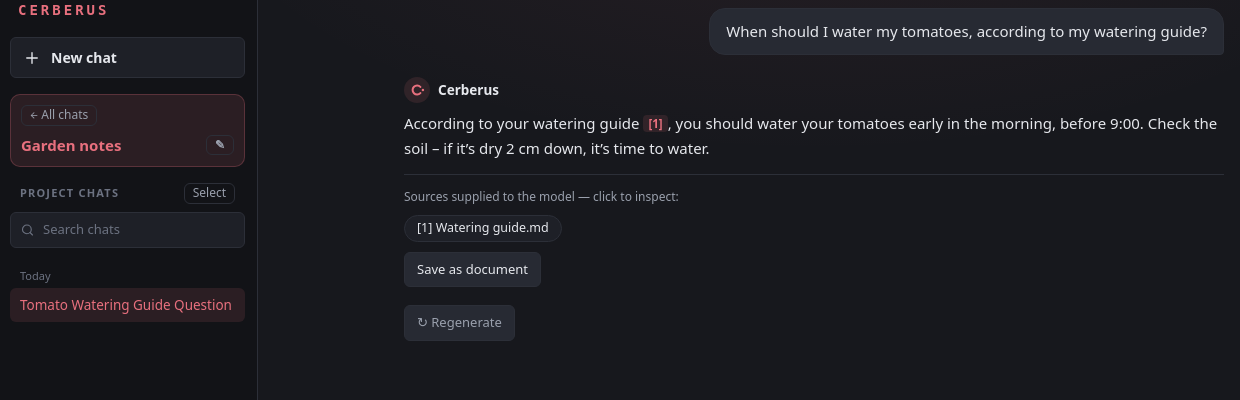
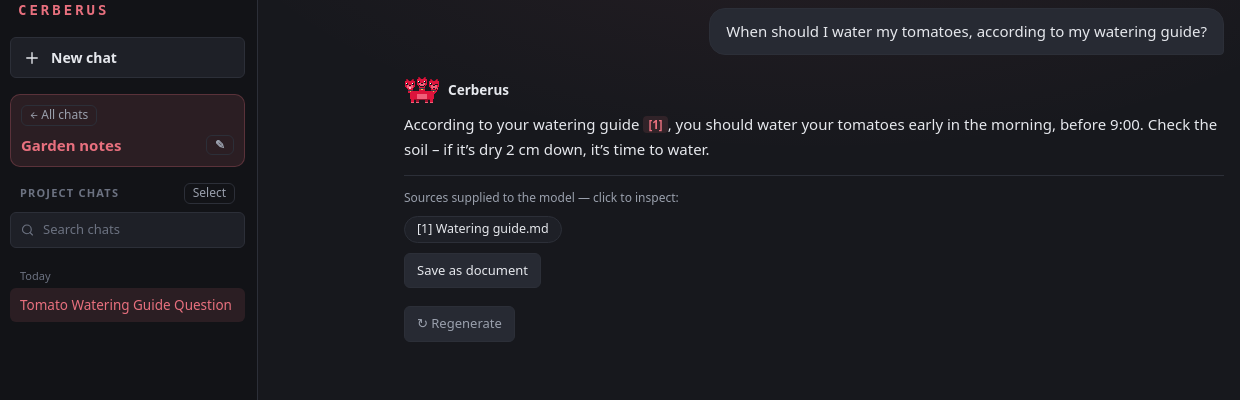
Settings with a page menu; the mascot stays on finished replies
Settings shows one page at a time with compact cards and a fixed size. Replies keep the mascot: talking while writing, resting on the newest, still on older ones.

diff --git a/static/style.css b/static/style.css
@@ -144,8 +144,7 @@ code, pre, kbd {
 }
 
 /* The logo: a thick round line, also in the text's color. */
-.logo,
-.avatar {
+.logo {
   fill: none;
   stroke: currentColor;
   stroke-linecap: round;
@@ -823,14 +822,23 @@ main {
   font-size: 13.5px;
 }
 
-.reply-head .avatar {
-  width: 26px;
-  height: 26px;
-  padding: 6px 4px;
-  border-radius: 50%;
-  background: var(--accent-bg);
-  color: var(--accent);
-  stroke-width: 3.6;
+/* The mascot in place of a profile picture, at one screen pixel per mascot
+   pixel so its edges stay sharp. */
+.reply-mascot {
+  flex-shrink: 0;
+  width: 36px;
+  height: 27px;
+  background: url("/static/mascot.svg") no-repeat center / contain;
+}
+
+/* The newest answer rests: a tail wag now and then. Older ones stay still,
+   so a long chat isn't full of movement. */
+.reply:not(:has(~ .reply)) .reply-mascot {
+  background-image: url("/static/mascot-idle.svg");
+}
+
+.reply.streaming .reply-mascot {
+  background-image: url("/static/mascot-talking.svg");
 }
 
 .reply-meta {
@@ -1742,7 +1750,107 @@ dialog .dialog-close:hover {
 #settings-form {
   display: flex;
   flex-direction: column;
-  max-height: 88vh;
+  height: 100%;
+}
+
+/* A fixed size: switching pages never makes the window jump. */
+#settings-dialog {
+  width: 860px;
+  height: min(620px, 88vh);
+}
+
+/* The menu on the left, one page on the right; each side scrolls itself. */
+#settings-fields.settings-layout {
+  display: grid;
+  grid-template-columns: 176px 1fr;
+  padding: 0;
+  overflow: hidden;
+}
+
+.settings-nav {
+  display: flex;
+  flex-direction: column;
+  gap: 2px;
+  padding: 14px 10px;
+  border-right: 1px solid var(--border);
+  overflow-y: auto;
+}
+
+#settings-dialog .settings-nav-item {
+  display: block;
+  width: 100%;
+  padding: 8px 12px;
+  background: none;
+  border: none;
+  border-radius: var(--radius-sm);
+  color: var(--muted);
+  font-size: 13.5px;
+  text-align: left;
+}
+
+#settings-dialog .settings-nav-item:hover {
+  background: var(--panel);
+  color: var(--text);
+}
+
+#settings-dialog .settings-nav-item[aria-current="page"] {
+  background: var(--accent-bg);
+  color: var(--text);
+  font-weight: 600;
+}
+
+.settings-pages {
+  min-height: 0;
+  overflow-y: auto;
+  padding: 18px 22px 10px;
+  outline: none; /* focused on opening for scrolling; nothing to highlight */
+}
+
+.settings-page-title {
+  margin: 0 0 14px;
+  font-size: 16px;
+  font-weight: 600;
+}
+
+/* Settings cards are compact: title and hint, the control beside or below. */
+#settings-dialog .setting-card {
+  padding: 12px 16px;
+  margin-bottom: 10px;
+}
+
+#settings-dialog .setting-card h3 {
+  font-size: 14px;
+}
+
+#settings-dialog .setting-card .hint {
+  font-size: 12.5px;
+  padding-top: 0;
+  line-height: 1.5;
+}
+
+#settings-dialog .setting-head {
+  align-items: center;
+}
+
+/* A narrow window: the menu becomes a row of tabs on top. */
+@media (max-width: 700px) {
+  #settings-fields.settings-layout {
+    grid-template-columns: 1fr;
+    grid-template-rows: auto 1fr;
+  }
+
+  .settings-nav {
+    flex-direction: row;
+    overflow-x: auto;
+    border-right: none;
+    border-bottom: 1px solid var(--border);
+    padding: 8px;
+  }
+
+  #settings-dialog .settings-nav-item {
+    width: auto;
+    white-space: nowrap;
+  }
 }
 
 #settings-reset {
@@ -2199,12 +2307,11 @@ dialog .dialog-close:hover {
   animation: rise-in 0.25s ease-out, shimmer 1.6s linear infinite;
 }
 
-/* The pixel mascot keeps you company while Cerberus works. Its three heads
-   bob in turn while it thinks, and nod while it writes the answer. The
-   movement is inside the images (made by scripts/make_mascot.py), so it
-   keeps going while the text around it changes. */
-.pending::before,
-.reply.streaming .reply-head::before {
+/* The pixel mascot keeps you company while Cerberus works: its three heads
+   bob in turn while it thinks. While it writes, the reply's own mascot nods
+   (.reply-mascot). The movement is inside the images (made by
+   scripts/make_mascot.py), so it keeps going while the text changes. */
+.pending::before {
   content: "";
   display: inline-block;
   flex-shrink: 0;
@@ -2221,13 +2328,6 @@ dialog .dialog-close:hover {
   vertical-align: middle;
 }
 
-.reply.streaming .reply-head::before {
-  background-image: url("/static/mascot-talking.svg");
-}
-
-.reply.streaming .reply-head .avatar {
-  display: none; /* the mascot stands in for the logo until the answer is done */
-}
 
 /* Buttons give way a little when pressed. */
 button:not(:disabled):active {

diff --git a/static/settings.js b/static/settings.js
@@ -24,12 +24,42 @@ const TEXT_SETTINGS = {
 
 // ---------- Building blocks ----------
 
-// A small heading between groups of cards, like "Helper models".
+// The dialog has a menu on the left and one page on the right. Each
+// sectionTitle starts a new page, with its entry in the menu; the cards
+// after it go on that page.
+let settingsNav = null;
+let settingsPages = null;
+let settingsPage = null; // the page cards are added to right now
+let openPage = "General"; // the page on screen, kept between openings
+
 function sectionTitle(text) {
-  const title = document.createElement("h3");
-  title.className = "setting-section";
-  title.textContent = text;
-  settingsFields.appendChild(title);
+  const item = document.createElement("button");
+  item.type = "button";
+  item.className = "settings-nav-item";
+  item.textContent = text;
+  item.addEventListener("click", () => showSettingsPage(text));
+  settingsNav.appendChild(item);
+
+  settingsPage = document.createElement("section");
+  settingsPage.className = "settings-page";
+  settingsPage.dataset.page = text;
+  const heading = document.createElement("h3");
+  heading.className = "settings-page-title";
+  heading.textContent = text;
+  settingsPage.appendChild(heading);
+  settingsPages.appendChild(settingsPage);
+}
+
+function showSettingsPage(name) {
+  if (!settingsPages.querySelector(`[data-page="${name}"]`)) name = "General";
+  openPage = name;
+  for (const page of settingsPages.children) page.hidden = page.dataset.page !== name;
+  for (const item of settingsNav.children) {
+    if (item.textContent === name) item.setAttribute("aria-current", "page");
+    else item.removeAttribute("aria-current");
+  }
+  settingsPages.scrollTop = 0;
+  growAll(); // a page's text boxes only get a real height once it's shown
 }
 
 // One card: a title and a short explanation, and optionally a switch on
@@ -51,7 +81,7 @@ function settingCard(title, hint, aside = null) {
   if (aside) head.appendChild(aside);
 
   card.appendChild(head);
-  settingsFields.appendChild(card);
+  settingsPage.appendChild(card);
   return card;
 }
 
@@ -60,12 +90,16 @@ function settingCard(title, hint, aside = null) {
 // Builds every card, filled with the current values.
 function fillSettings(values) {
   settingsFields.innerHTML = "";
+  settingsFields.classList.add("settings-layout");
+  settingsNav = document.createElement("nav");
+  settingsNav.className = "settings-nav";
+  settingsNav.setAttribute("aria-label", "Settings pages");
+  settingsPages = document.createElement("div");
+  settingsPages.className = "settings-pages";
+  settingsPages.tabIndex = -1; // focusable from code only, for scrolling
+  settingsFields.append(settingsNav, settingsPages);
 
-  sectionTitle("Setup");
-  const setupCard = settingCard(
-    "Setup check",
-    "Choose where your AI runs and get ready to chat. Optional features can wait."
-  );
+  sectionTitle("General");
   const openSetupButton = document.createElement("button");
   openSetupButton.type = "button";
   openSetupButton.textContent = "Open setup";
@@ -73,9 +107,12 @@ function fillSettings(values) {
     settingsDialog.close();
     openSetup(); // setup.js
   });
-  setupCard.appendChild(openSetupButton);
+  settingCard(
+    "Setup check",
+    "Choose where your AI runs and get ready to chat. Optional features can wait.",
+    openSetupButton
+  );
 
-  sectionTitle("Updates");
   addUpdateCard();
 
   sectionTitle("Assistant");
@@ -124,6 +161,8 @@ function fillSettings(values) {
 
   sectionTitle("Help");
   addHelpCard();
+
+  showSettingsPage(openPage);
 }
 
 // Web search: where SearXNG listens. The Web pill in the chat turns it
@@ -497,6 +536,8 @@ async function openSettings() {
   fillSettings(values);
   settingsDialog.showModal(); // a modal dialog blocks the page behind it
   growAll(); // only now the boxes are visible and have a real height
+  // Start in the page, not on the close button: the arrow keys scroll it.
+  settingsPages.focus();
 }
 
 function growAll() {

diff --git a/static/app.js b/static/app.js
@@ -140,8 +140,12 @@ function replyHead(label) {
   const match = /^(.*?)(?: \((.*)\))?:$/.exec(label) || [label, label, ""];
   const head = document.createElement("div");
   head.className = "reply-head";
-  // innerHTML is fine here: a fixed piece of HTML, nothing from the model.
-  head.innerHTML = '<svg class="avatar"><use href="#i-logo"/></svg>';
+  // The pixel mascot: talking while the answer streams, resting on the
+  // newest answer, still on older ones (style.css picks the picture).
+  const mascot = document.createElement("span");
+  mascot.className = "reply-mascot";
+  mascot.setAttribute("aria-hidden", "true");
+  head.appendChild(mascot);
   const name = document.createElement("strong");
   name.textContent = match[1];
   head.appendChild(name);
